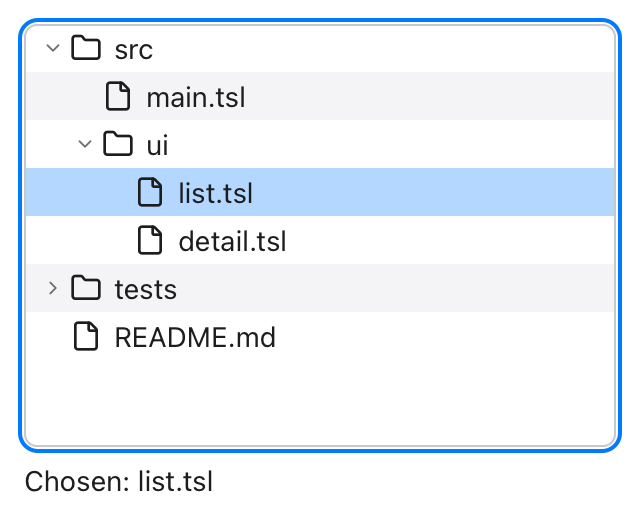
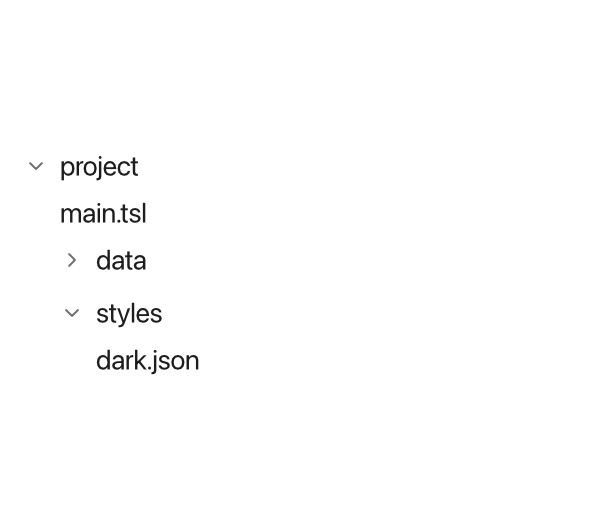
Docs: the lists page keeps its own picture of a tree

Changed region(s): [[0.0, 0.0308, 0.99, 0.9538], [0.15, 0.1538, 0.39, 0.2154]]

diff --git a/website/src/content/docs/ui/tables.md b/website/src/content/docs/ui/tables.md
@@ -142,7 +142,7 @@ app Files(title: "Files", width: 320, height: 260) {
 }
 ```
 
-![A tree of files: src is open, with main.tsl and the folder ui inside it, which is open too with list.tsl selected and detail.tsl; tests is closed; README.md](../../../assets/screens/ui-tree.png)
+![A tree of files: src is open, with main.tsl and the folder ui inside it, which is open too with list.tsl selected and detail.tsl; tests is closed; README.md](../../../assets/screens/ui-tree-view.png)
 
 - Each level is indented, and a node with children has an arrow: click it,
   or press the right arrow key to open the node and the left one to close
